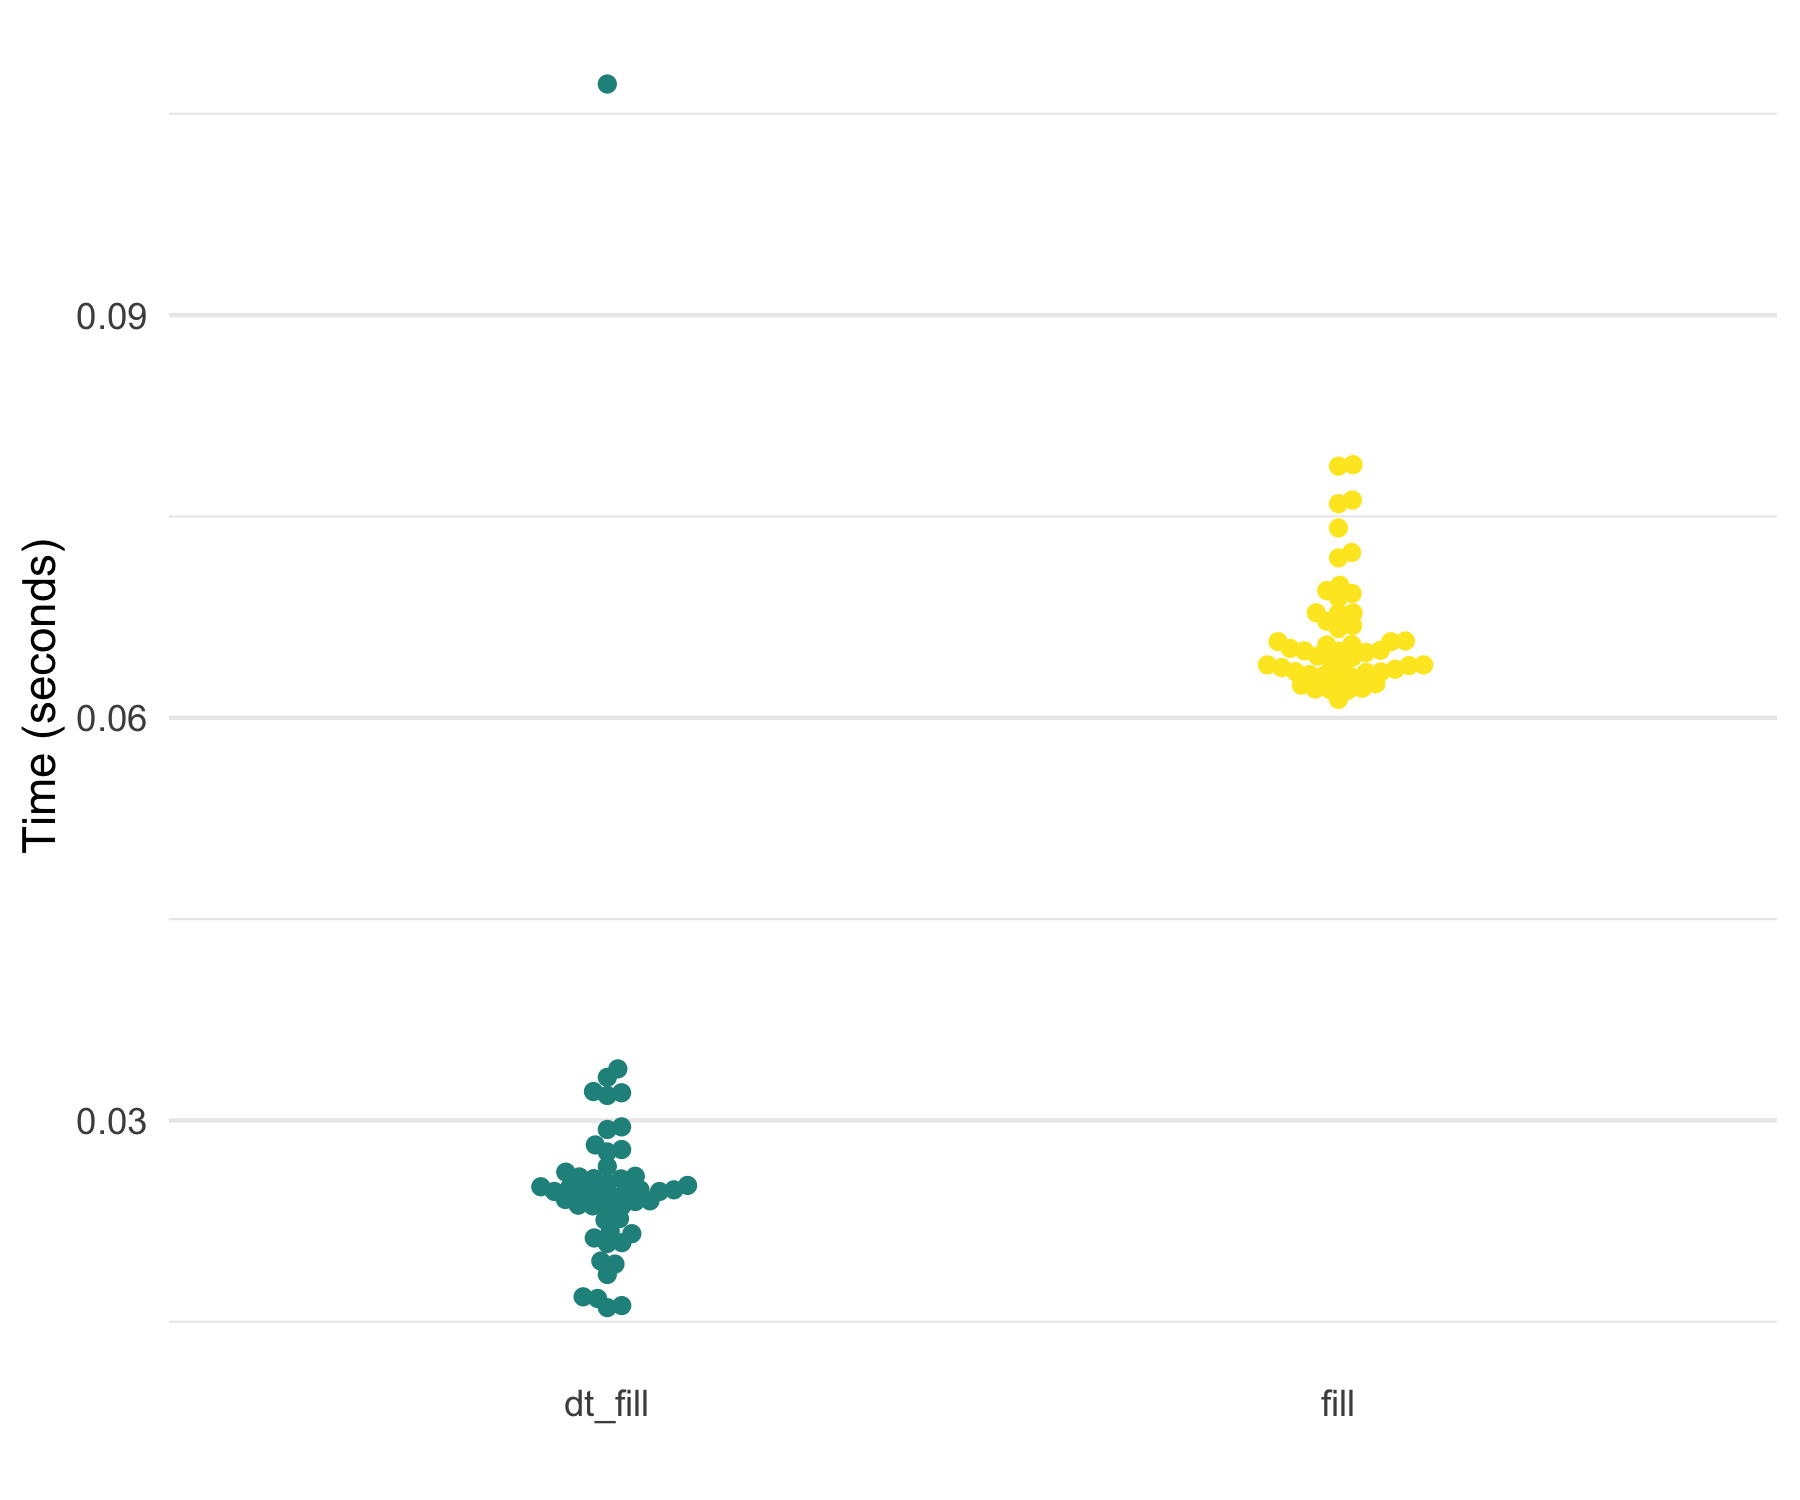
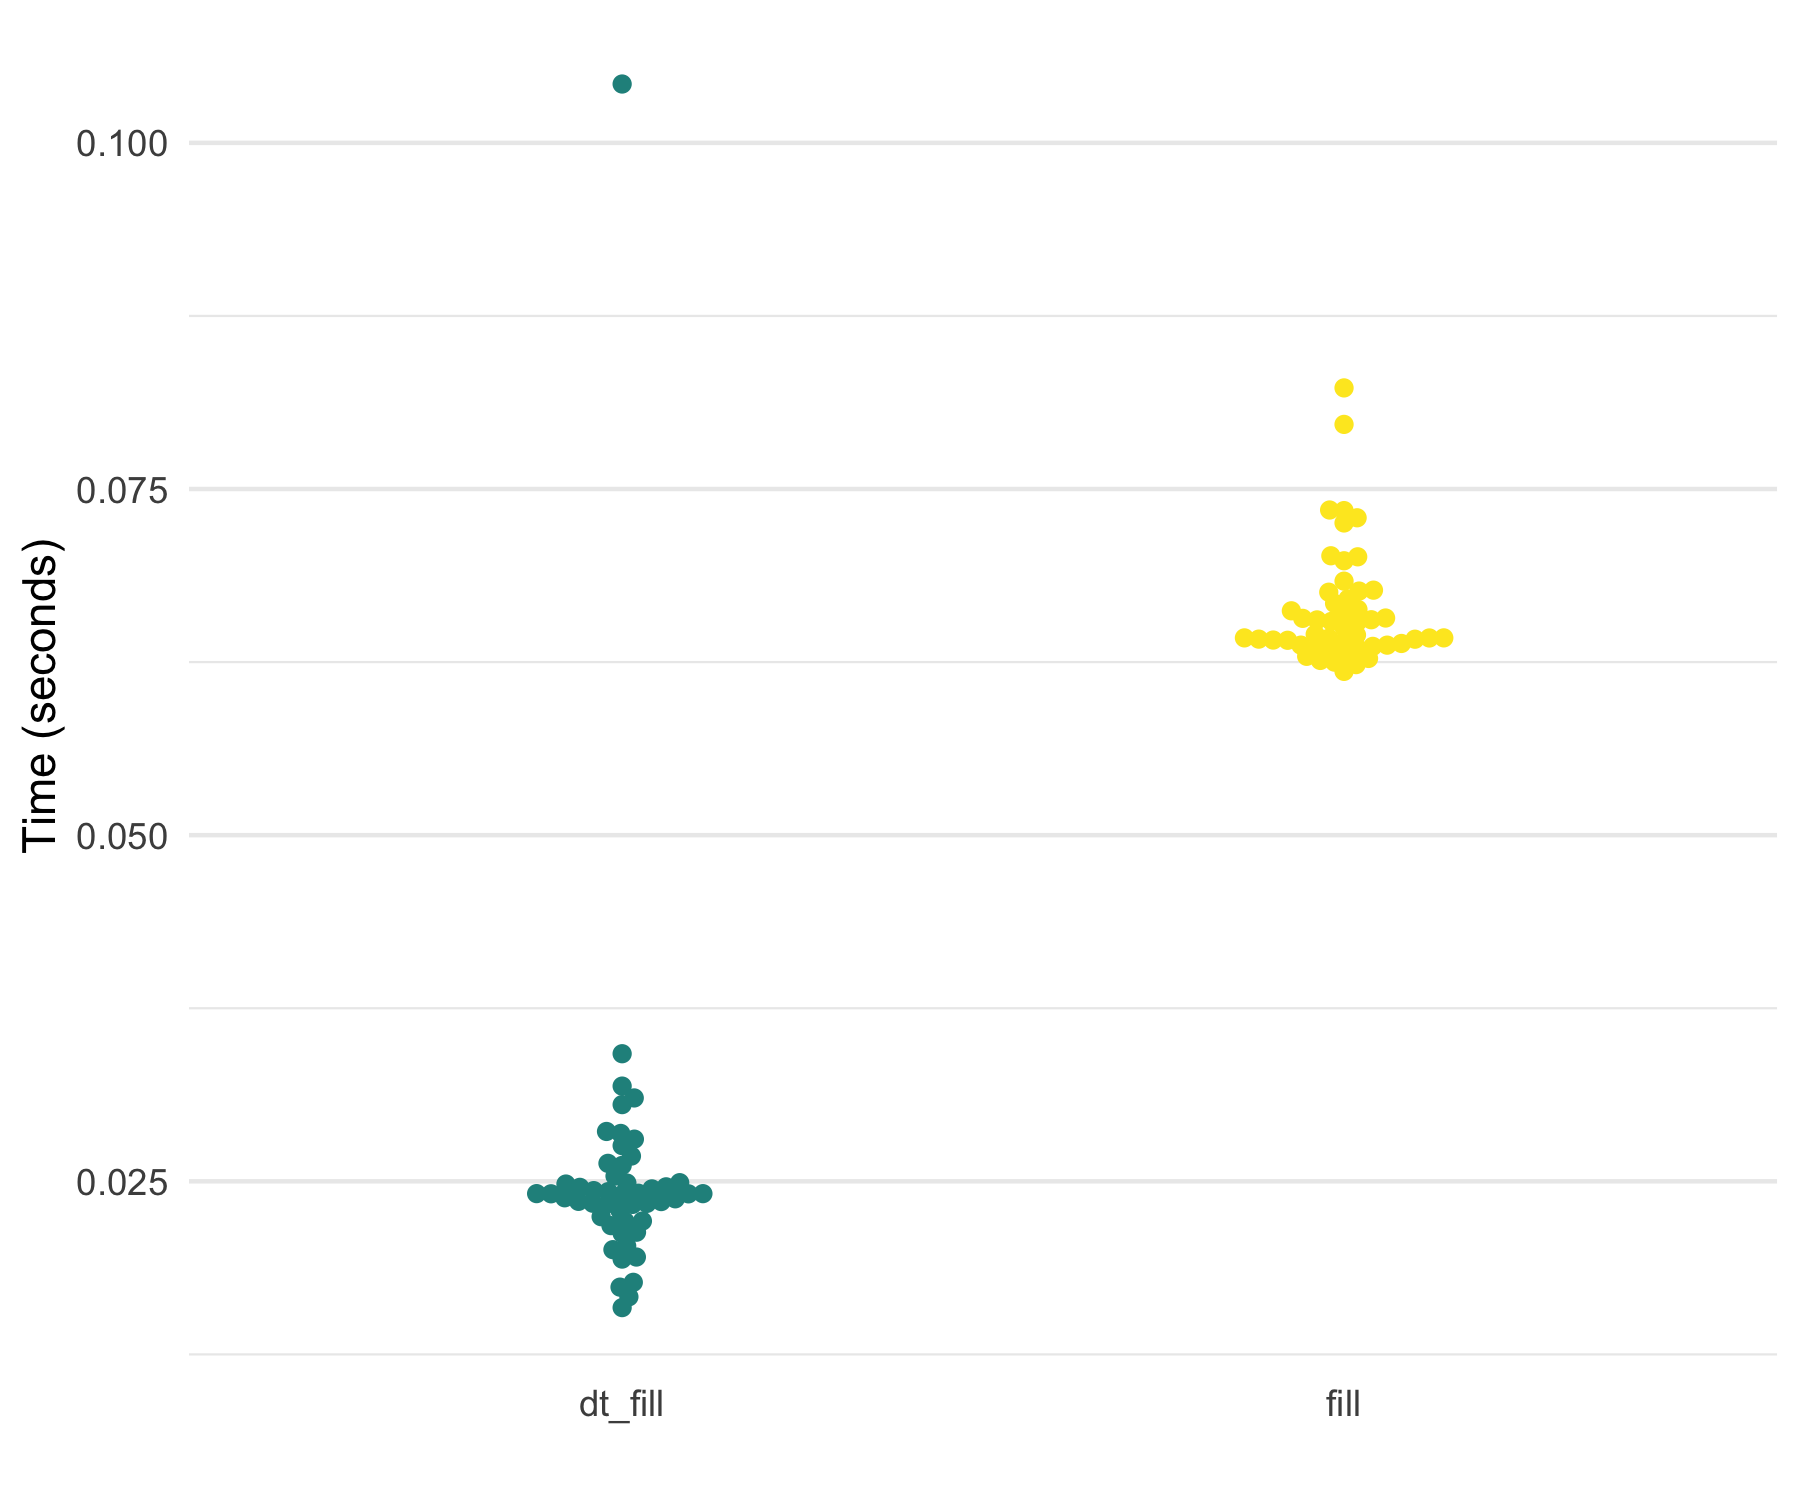
updated unnest to handle multiple `by`

diff --git a/README.md b/README.md
@@ -1,7 +1,7 @@
 
 <!-- README.md is generated from README.Rmd. Please edit that file -->
 
-# `tidyfast v0.1.6` <img src="man/figures/tidyfast_hex.png" align="right" width="30%" height="30%" />
+# `tidyfast v0.1.7` <img src="man/figures/tidyfast_hex.png" align="right" width="30%" height="30%" />
 
 <!-- badges: start -->
 
@@ -216,8 +216,8 @@ built on `data.table::fifelse()`.
     #> # A tibble: 3 x 3
     #>   expression     median mem_alloc
     #>   <chr>        <bch:tm> <bch:byt>
-    #> 1 case_when     124.9ms   148.8MB
-    #> 2 dt_case_when   35.1ms    34.3MB
+    #> 1 case_when     121.8ms   148.8MB
+    #> 2 dt_case_when     34ms    34.3MB
     #> 3 fifelse        31.7ms    34.3MB
 
 ## Fill
@@ -326,8 +326,8 @@ marks3 <-
     #> # A tibble: 2 x 3
     #>   expression                                    median mem_alloc
     #>   <bch:expr>                                  <bch:tm> <bch:byt>
-    #> 1 tidyr::fill(dplyr::group_by(df3, id), x, y)   63.7ms    30.9MB
-    #> 2 tidyfast::dt_fill(dt3, x, y, id = list(id))     24ms    29.1MB
+    #> 1 tidyr::fill(dplyr::group_by(df3, id), x, y)   64.1ms    30.9MB
+    #> 2 tidyfast::dt_fill(dt3, x, y, id = list(id))   23.4ms    29.1MB
 
 ## Separate
 
@@ -369,9 +369,9 @@ than `tidyr::separate()`.
     #> # A tibble: 3 x 3
     #>   expression            median mem_alloc
     #>   <chr>               <bch:tm> <bch:byt>
-    #> 1 separate               351ms    11.6MB
-    #> 2 dt_separate            130ms    30.6MB
-    #> 3 dt_separate-mutable    108ms    26.7MB
+    #> 1 separate               350ms    11.6MB
+    #> 2 dt_separate            126ms    30.6MB
+    #> 3 dt_separate-mutable    111ms    26.7MB
 
 ## Count and Uncount
 
